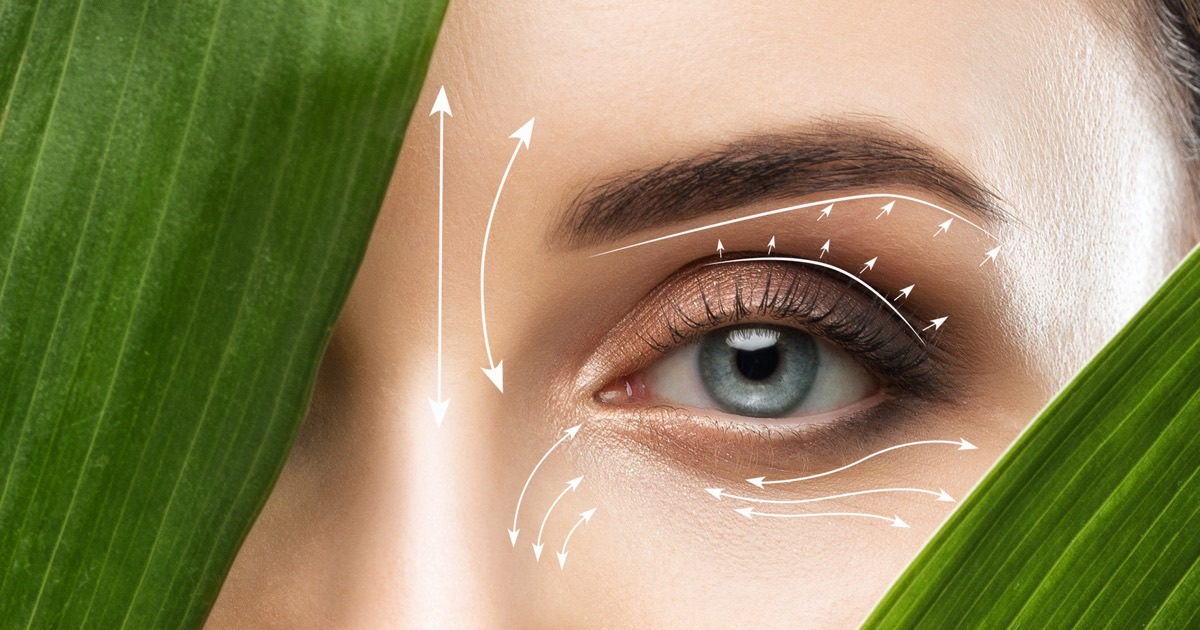
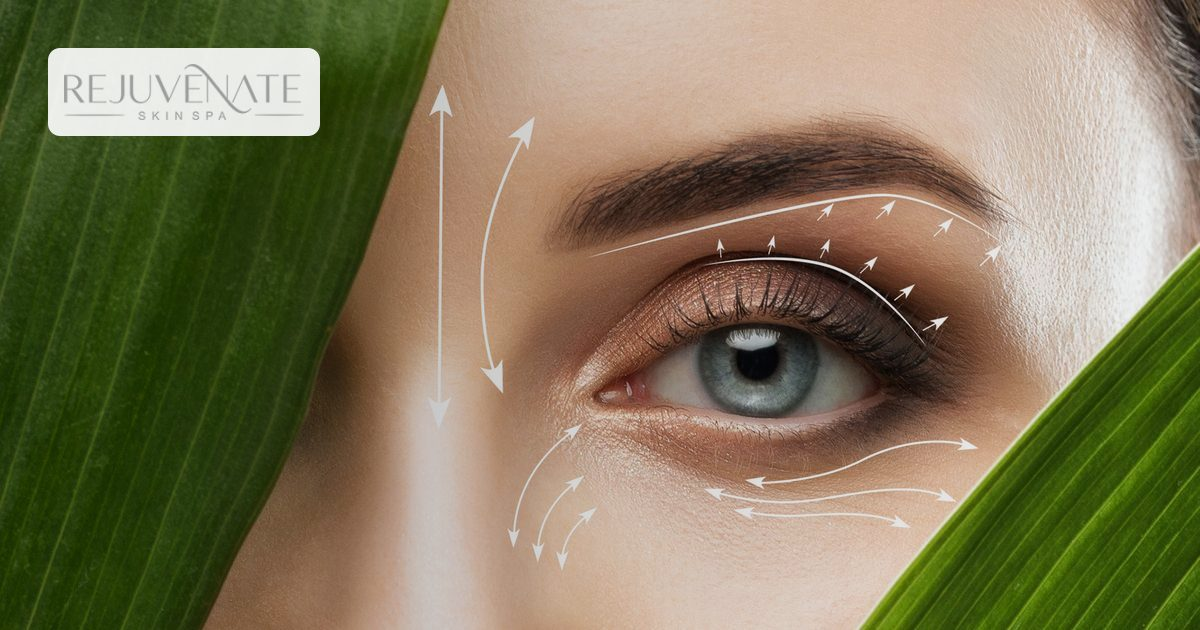
seo: improve home og preview branding

diff --git a/app/layout.tsx b/app/layout.tsx
@@ -42,7 +42,7 @@ export const metadata: Metadata = {
     "max-video-preview": -1,
   },
   openGraph: {
-    title: "Rejuvenate Skin Spa | Queen Creek, Arizona",
+    title: "Rejuvenate Skin Spa",
     description:
       "Advanced skincare treatments including Plexr plasma skin tightening, chemical peels, microneedling, and luxury facial services in Queen Creek, AZ.",
     url: siteUrl,
@@ -61,7 +61,7 @@ export const metadata: Metadata = {
   },
   twitter: {
     card: "summary_large_image",
-    title: "Rejuvenate Skin Spa | Queen Creek, Arizona",
+    title: "Rejuvenate Skin Spa",
     description:
       "Advanced skincare treatments including Plexr plasma skin tightening, chemical peels, microneedling, and luxury facial services in Queen Creek, AZ.",
     images: [
